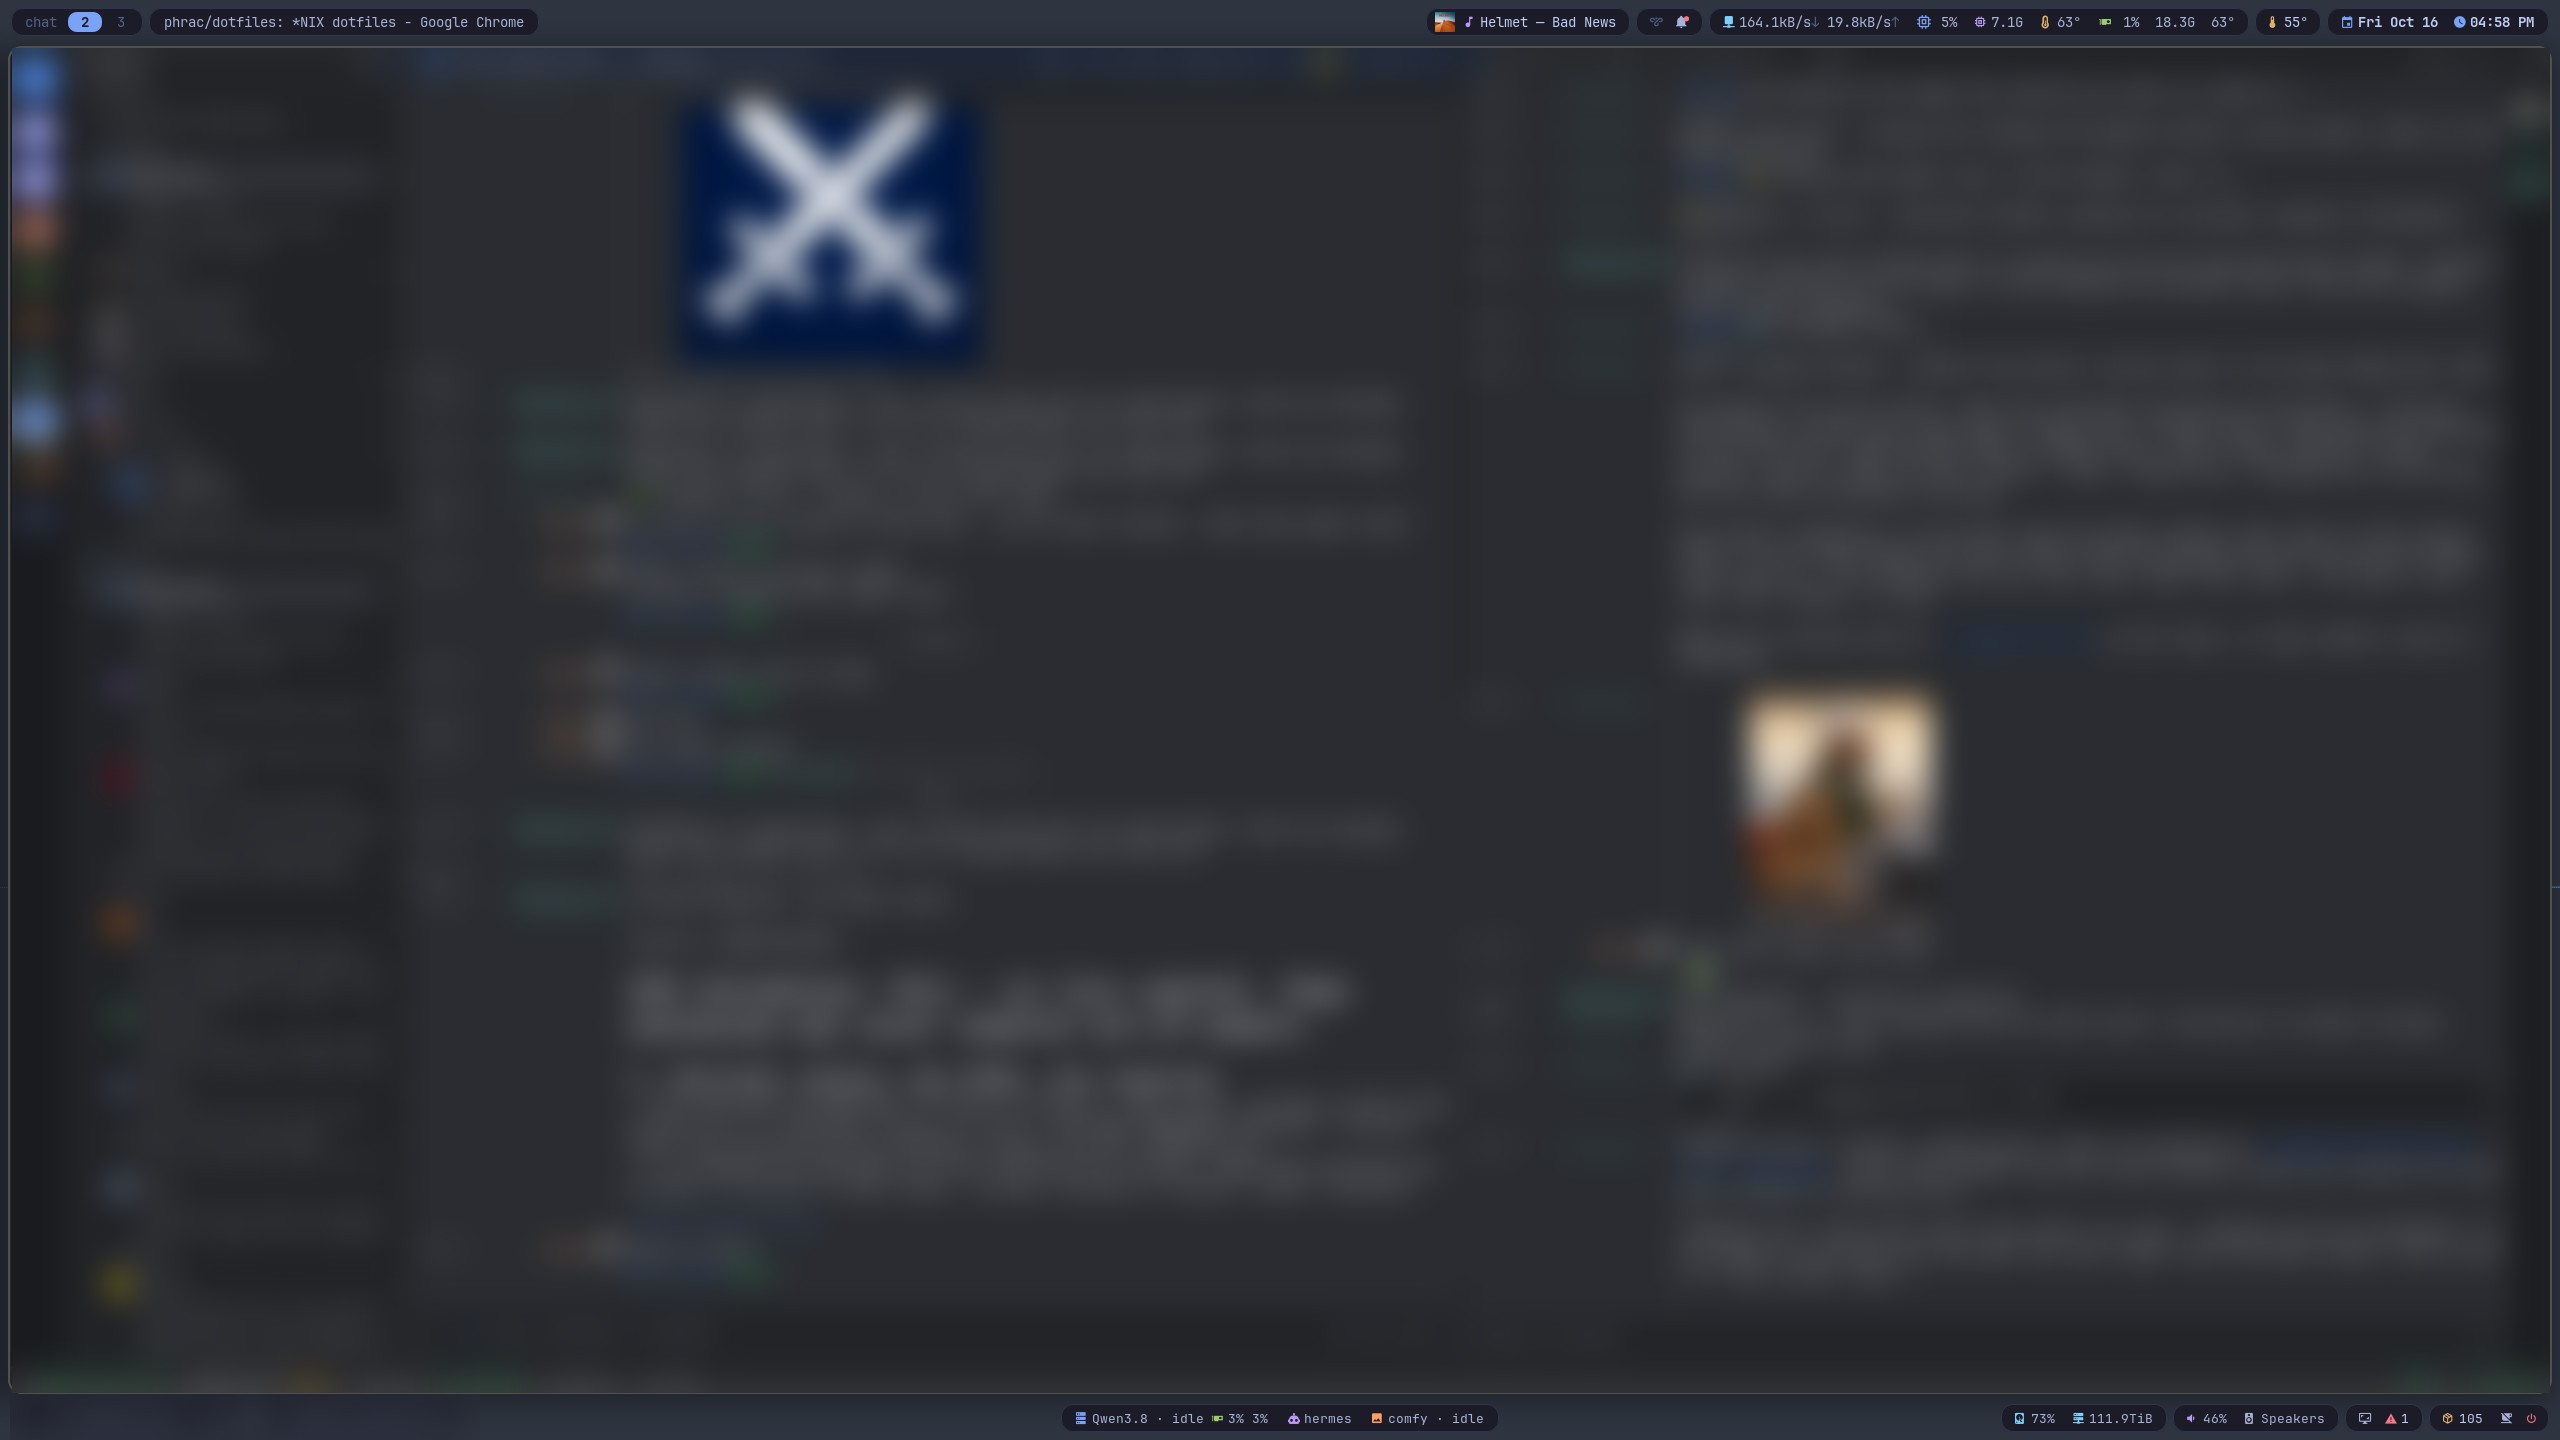
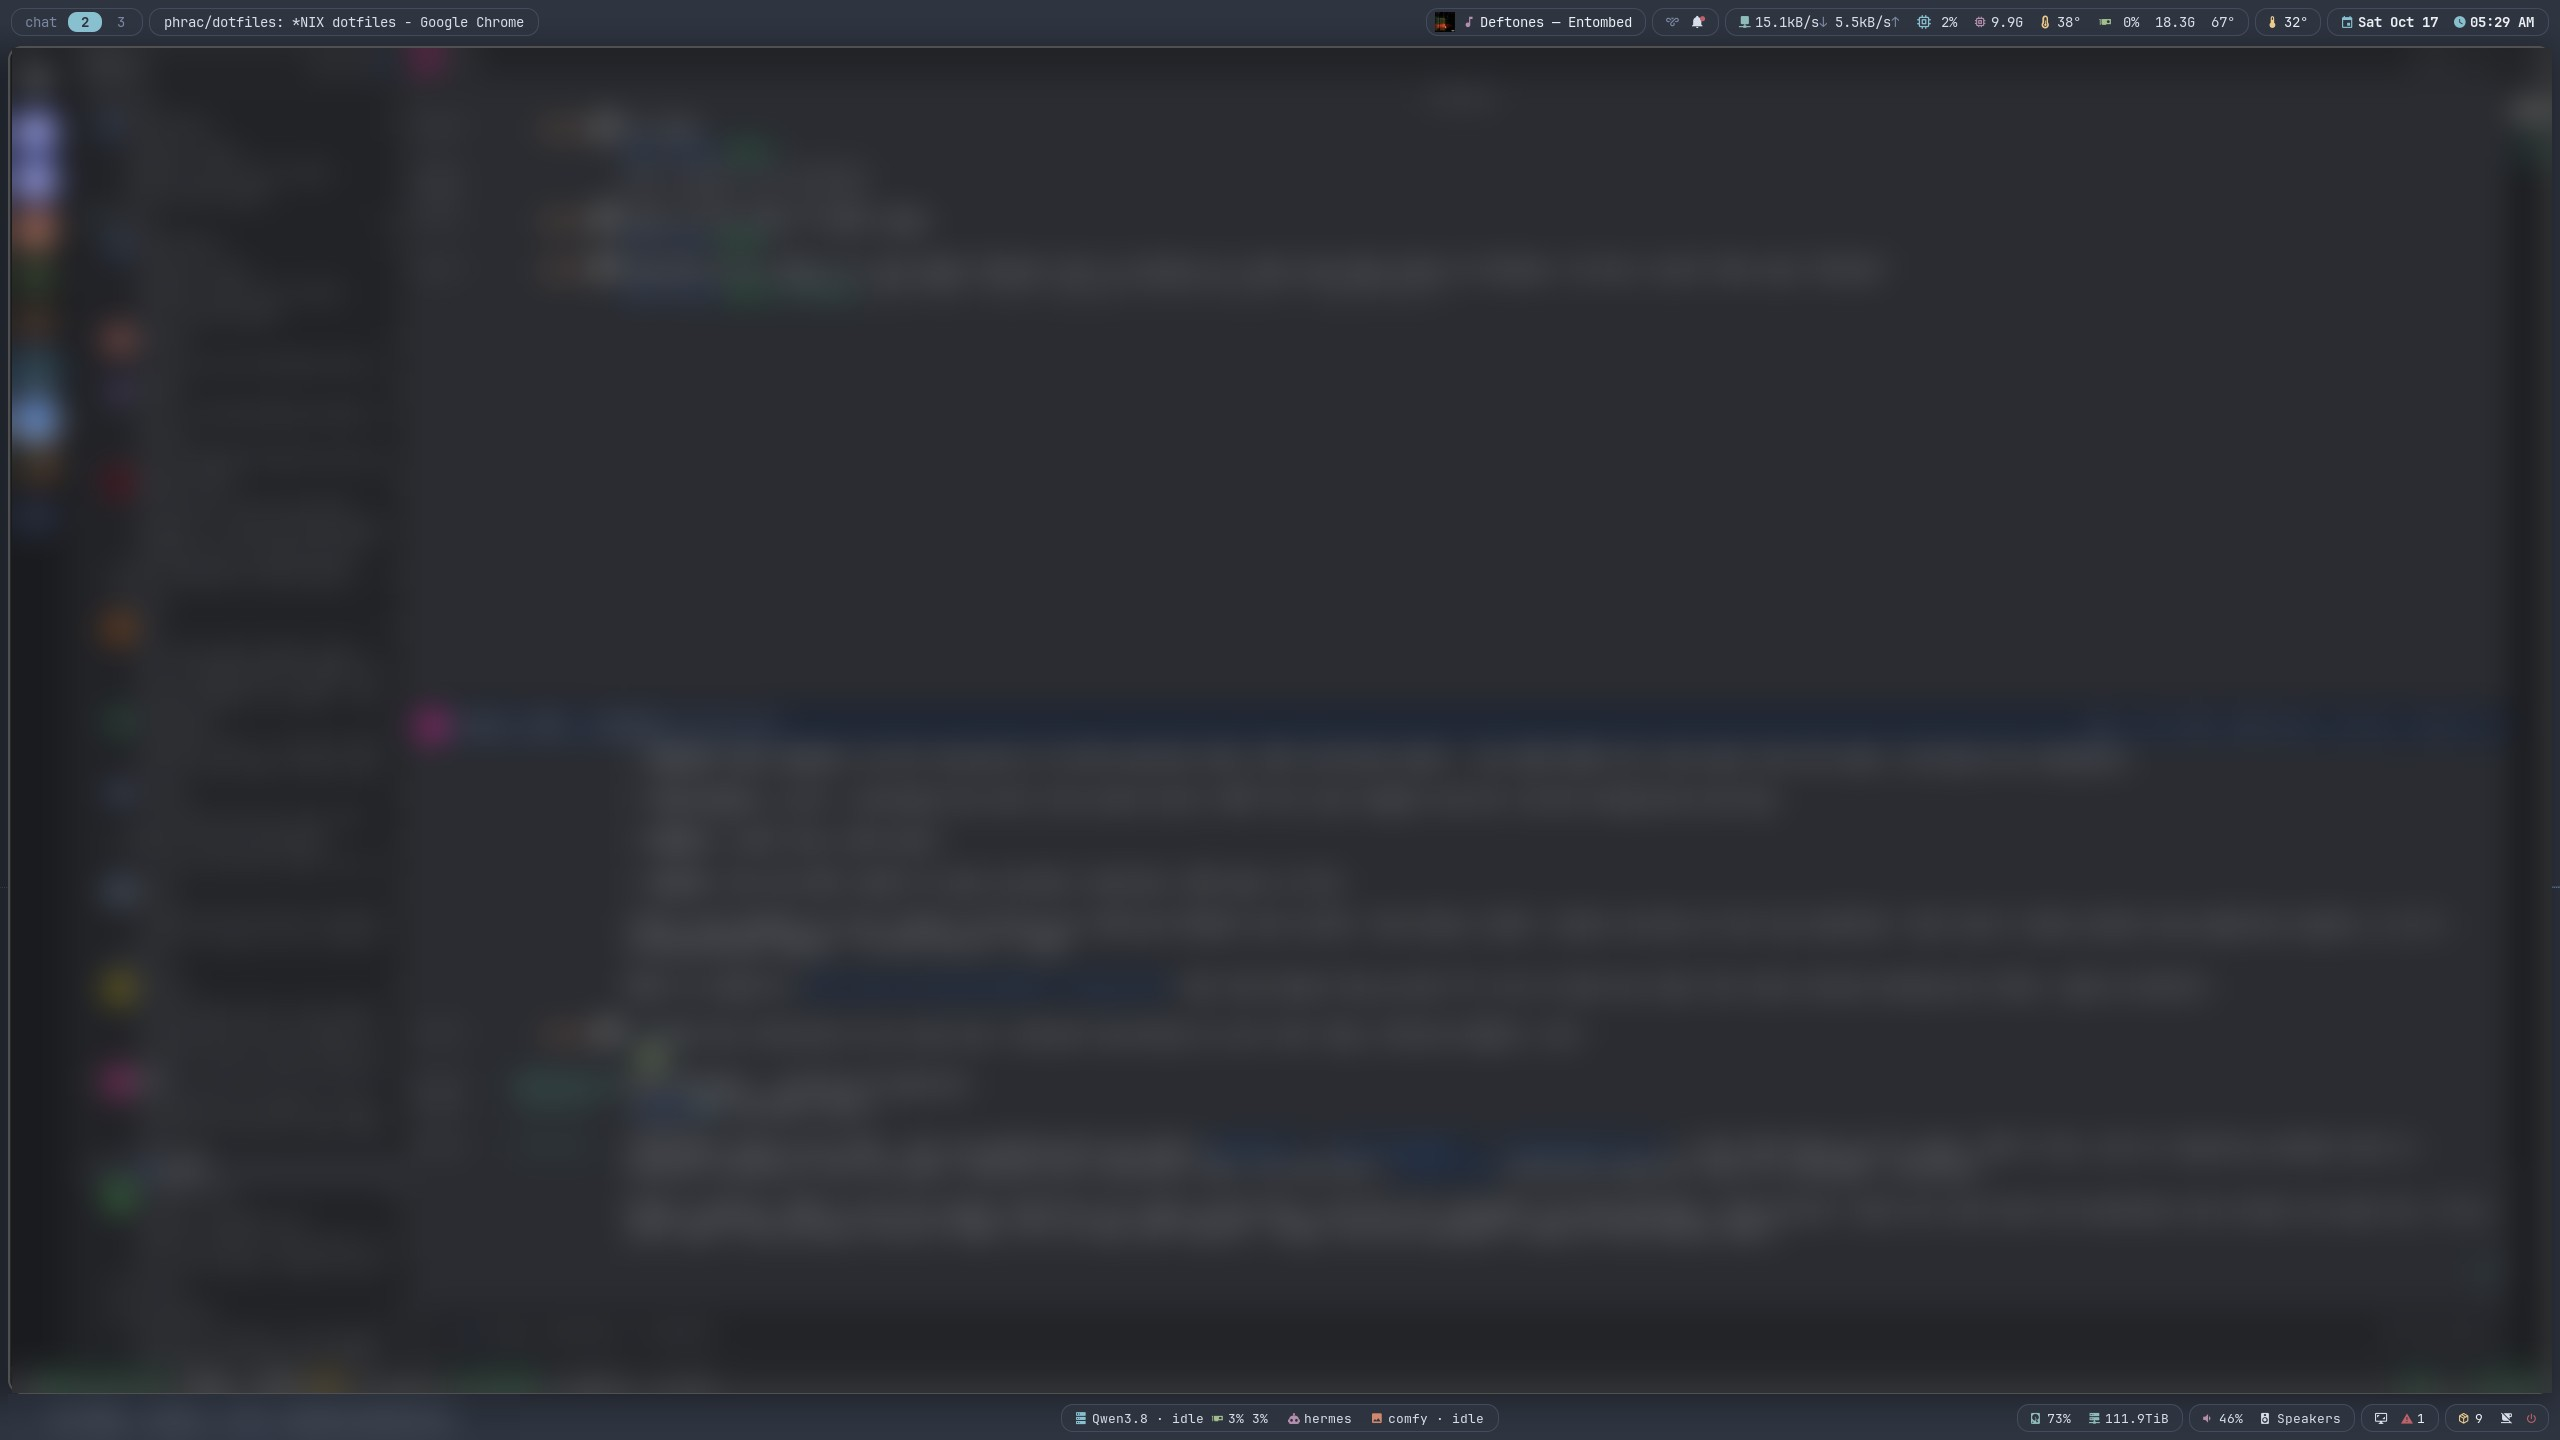
Retake all screenshots in Nord
Clean shots (bars, launcher, power menu, pop-ups, notification center,
tooltip gallery) on empty workspaces, plus live shots with chat,
browser tabs, terminals and taskbar titles blurred.

diff --git a/README.md b/README.md
@@ -12,11 +12,11 @@ macOS-style notification center, and one consistent Nord look across everything.
 
 ## In use
 
-All three monitors on a normal day. Private content (chat messages, file names, browser tabs, the terminal) is blurred.
+All three monitors on a normal day. Private content (chat messages, browser tabs, terminals and taskbar window titles) is blurred.
 
 ![Live, all three monitors](screenshots/live-triple.jpg)
 
-| Left: chat | Centre: browser | Right: files and terminal |
+| Left: chat | Centre: browser | Right: terminals |
 |---|---|---|
 | ![Left monitor](screenshots/live-left.jpg) | ![Centre monitor](screenshots/live-center.jpg) | ![Right monitor](screenshots/live-right.jpg) |
 
